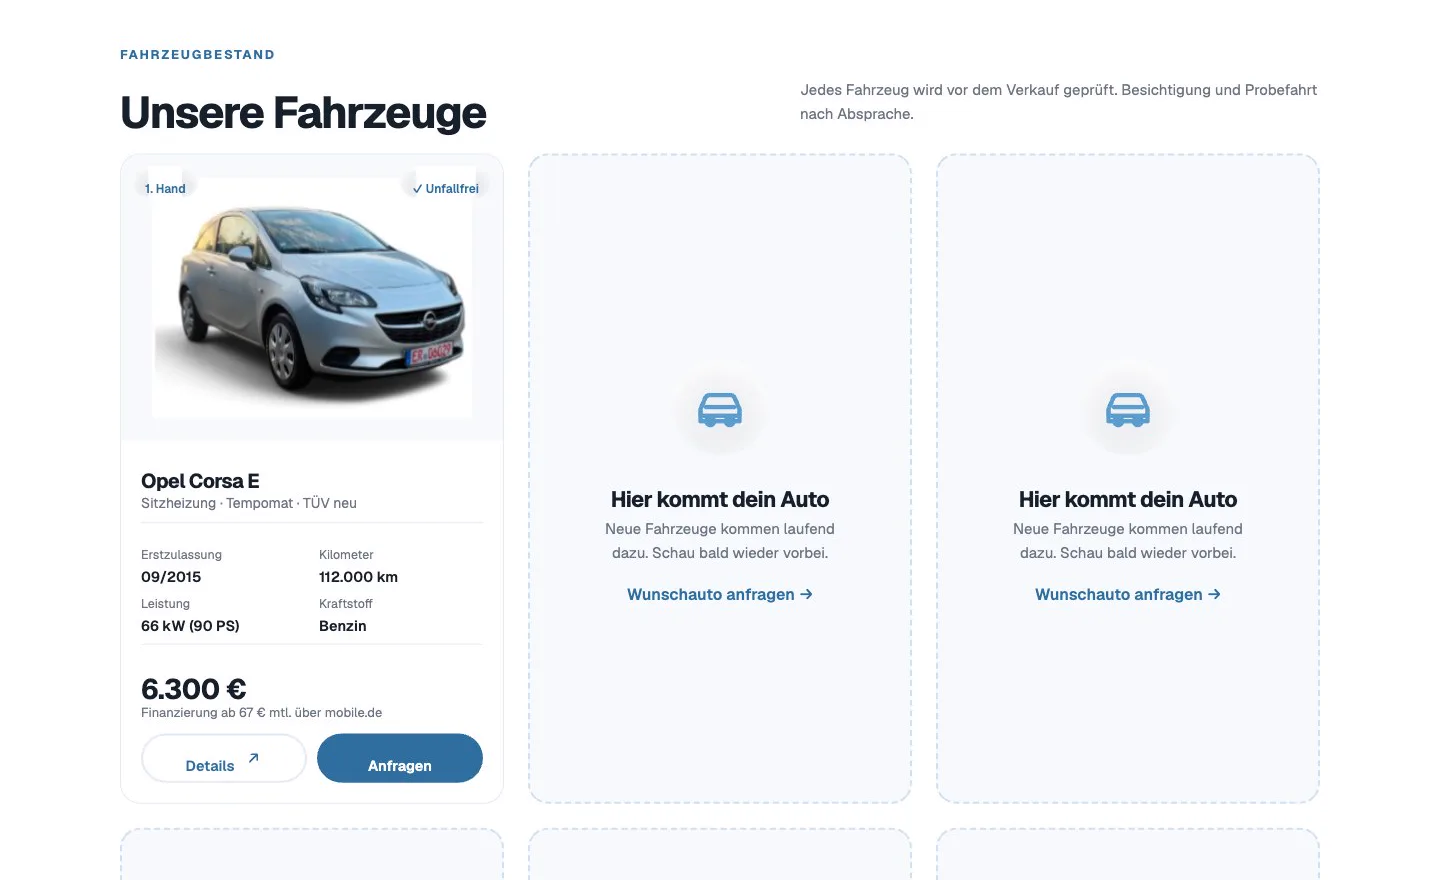
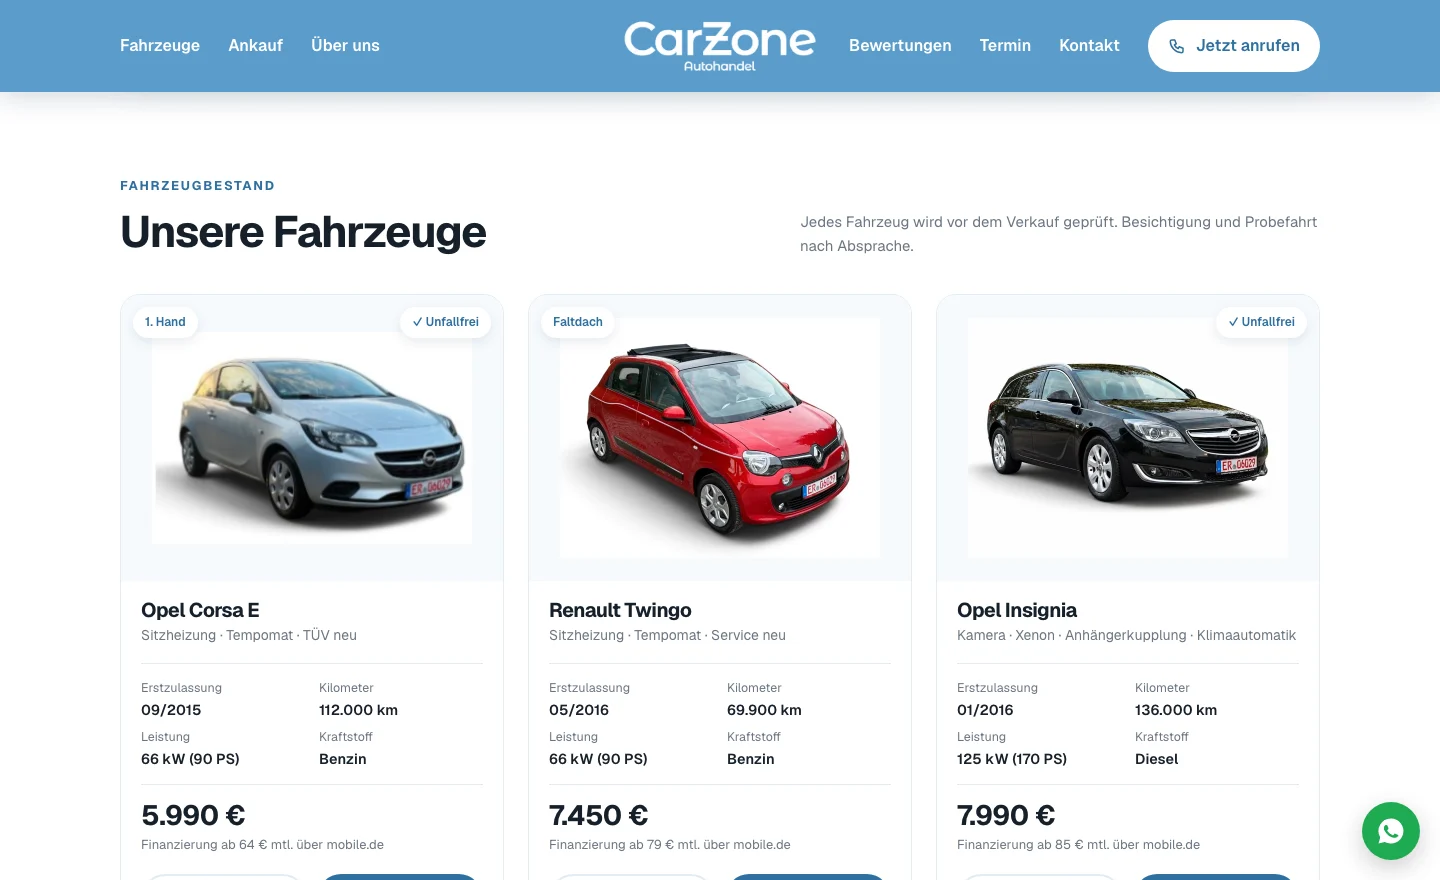
CarZone-Projektbilder neu aufnehmen und Cockpit-Kacheln nicht mehr überlaufen lassen

diff --git a/projekte/carzone.html b/projekte/carzone.html
@@ -96,7 +96,7 @@
   <div class="pj-gallery pj-gallery-car pj-gallery-cz">
     <button type="button" class="pj-shot tall" data-zoom="assets/carzone-handy.webp" data-caption="CarZone · Startseite auf dem Handy"><img src="assets/carzone-handy.webp" width="600" height="1298" loading="eager" decoding="async" alt="CarZone Website auf dem Handy: Startseite mit Überschrift Geprüfte Gebrauchtwagen zu fairen Preisen"><span class="pj-zoom" aria-hidden="true">↗</span></button>
     <button type="button" class="pj-shot " data-zoom="assets/carzone-desktop.webp" data-caption="CarZone · Startseite auf dem PC"><img src="assets/carzone-desktop.webp" width="1440" height="900" loading="lazy" decoding="async" alt="CarZone Website auf dem PC: Startseite im CarZone-Blau mit aktuellem Fahrzeugangebot"><span class="pj-zoom" aria-hidden="true">↗</span></button>
-    <button type="button" class="pj-shot " data-zoom="assets/carzone-fahrzeuge.webp" data-caption="CarZone · Fahrzeugbestand"><img src="assets/carzone-fahrzeuge.webp" width="1440" height="880" loading="lazy" decoding="async" alt="CarZone Website: Fahrzeugbestand mit Fahrzeugkarte und Platzhaltern für neue Autos"><span class="pj-zoom" aria-hidden="true">↗</span></button>
+    <button type="button" class="pj-shot " data-zoom="assets/carzone-fahrzeuge.webp" data-caption="CarZone · Fahrzeugbestand"><img src="assets/carzone-fahrzeuge.webp" width="1440" height="880" loading="lazy" decoding="async" alt="CarZone Website: Fahrzeugbestand mit Opel Corsa, Renault Twingo und Opel Insignia"><span class="pj-zoom" aria-hidden="true">↗</span></button>
     <button type="button" class="pj-shot wide" data-zoom="assets/carzone-ankauf.webp" data-caption="CarZone · Ankauf per WhatsApp"><img src="assets/carzone-ankauf.webp" width="1440" height="720" loading="lazy" decoding="async" alt="CarZone Website: Ankauf und Inzahlungnahme mit Formular, das per WhatsApp gesendet wird"><span class="pj-zoom" aria-hidden="true">↗</span></button>
   </div>
   <p class="pj-note">Gezeigt wird die Website-Vorschau mit freundlicher Erlaubnis des Kunden. Tippe auf ein Bild, um es groß anzusehen.</p>

diff --git a/index.html b/index.html
@@ -1110,7 +1110,11 @@
   .ring .bgc { stroke: rgba(255,255,255,.07); }
   .ring .fgc { stroke: var(--orange); stroke-linecap: round; stroke-dasharray: 239; stroke-dashoffset: 239; transform: rotate(-90deg); transform-origin: 50% 50%; transition: stroke-dashoffset 1.6s cubic-bezier(.2,.8,.2,1) .4s; }
   .dash.live .ring .fgc { stroke-dashoffset: 48; }
-  .vis { display: flex; align-items: center; gap: 14px; }
+  .vis { display: flex; align-items: center; gap: 14px; min-width: 0; }
+  .vis .ring { flex: 0 1 92px; min-width: 48px; height: auto; aspect-ratio: 1; }
+  .vis > div { min-width: 0; }
+  .c { min-width: 0; }
+  .c .v { font-size: clamp(20px, 2.1vw, 30px); white-space: nowrap; }
   .rows { display: grid; gap: 2px; }
   .row { display: grid; grid-template-columns: 30px minmax(0, 1fr) auto; gap: 10px; align-items: center; padding: 8px 4px; border-bottom: 1px solid var(--line); font-size: 14px; opacity: 0; transform: translateX(-8px); transition: opacity .5s, transform .5s; }
   .dash.live .row { opacity: 1; transform: none; }
